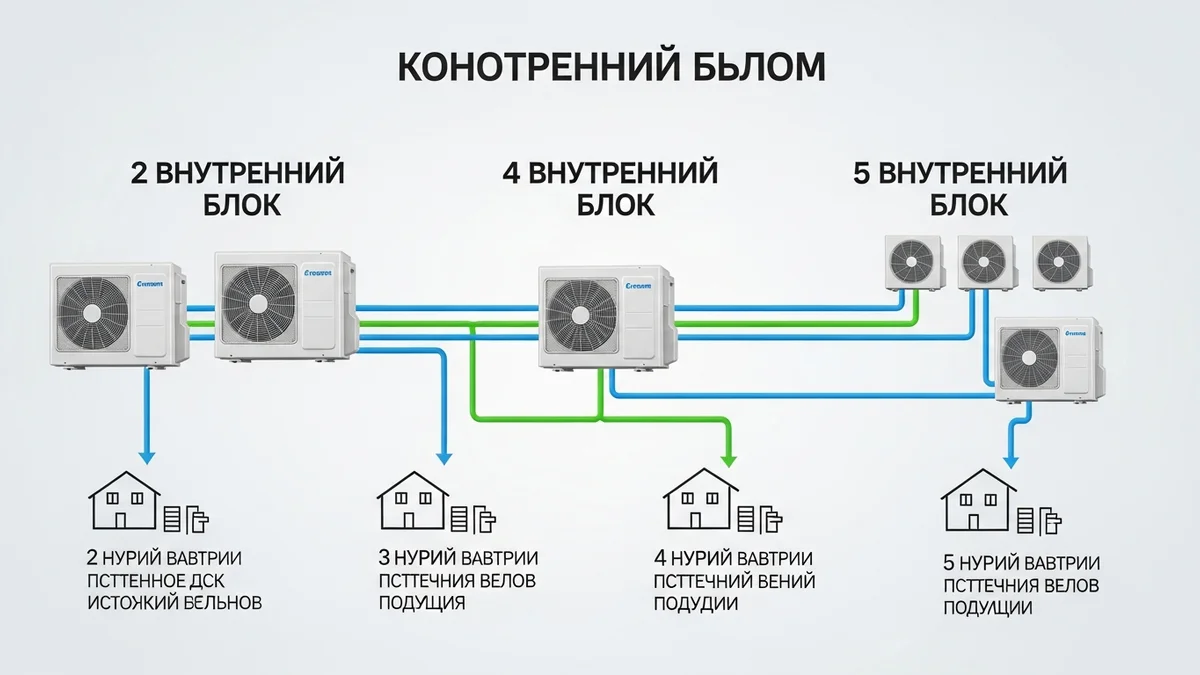
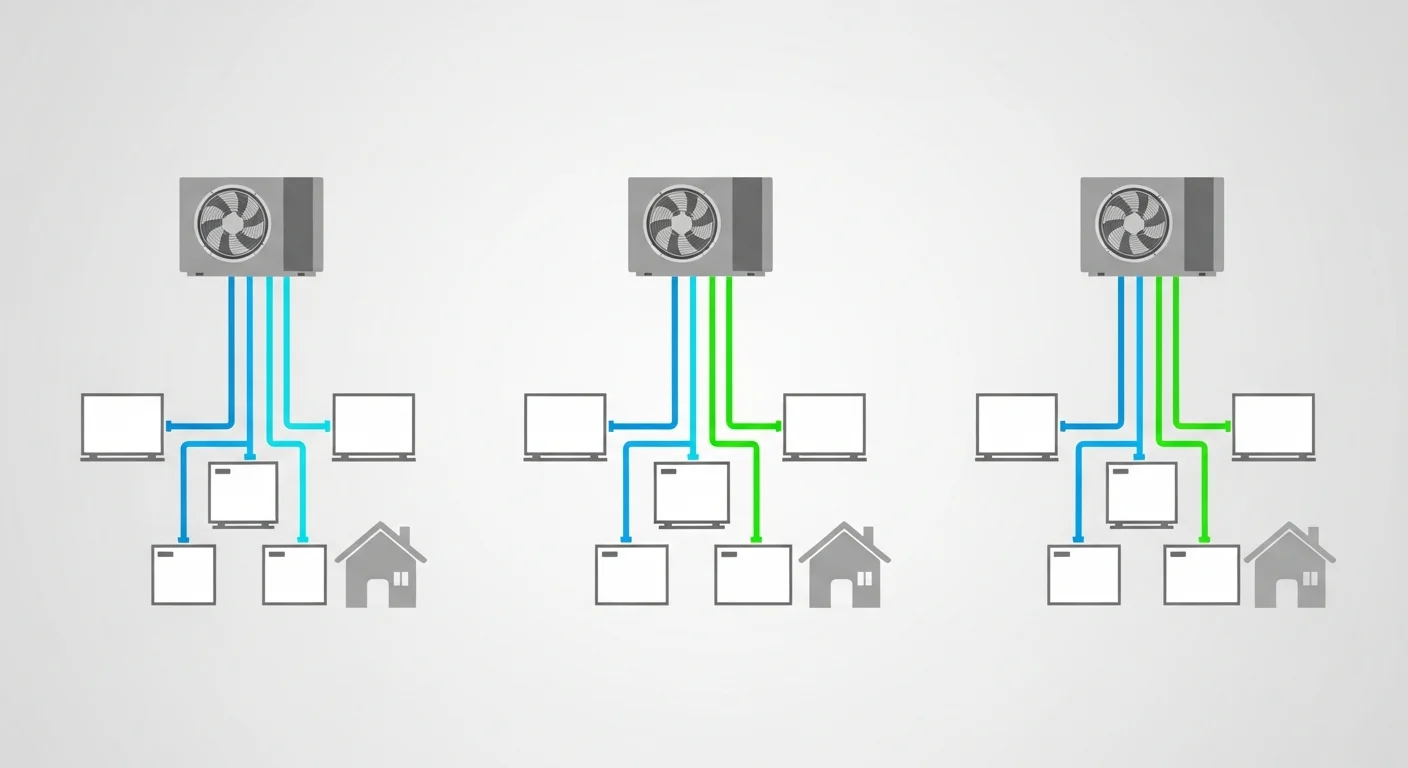
Update product catalog images and documentation for multi-split systems
Replaces a problematic image in the multi-split system catalog with a corrected version, adds audit documentation for multi-split and wall-mounted systems, and includes comparison images for both.

Replit-Commit-Author: Agent
Replit-Commit-Session-Id: 6c144e3e-a7a2-4392-b670-dd8cfbbd0db7
Replit-Commit-Checkpoint-Type: full_checkpoint
Replit-Commit-Event-Id: 23206dd3-2214-4680-890c-d56ea8fe95b0
Replit-Commit-Screenshot-Url: https://storage.googleapis.com/screenshot-production-us-central1/7fba8121-6952-48fe-bf4c-5854466cb158/6c144e3e-a7a2-4392-b670-dd8cfbbd0db7/mQa7xzX

Changed region(s): [[0.0308, 0.2178, 0.9558, 0.9333], [0.3083, 0.0622, 0.7092, 0.1244]]

diff --git a/docs/image-audit/MULTISPLIT_COMPLETED.md b/docs/image-audit/MULTISPLIT_COMPLETED.md
@@ -1,0 +1,112 @@
+# ✅ ЗАВЕРШЕНО - katalog/bytovye/multisplit.html (Мультисплит-системы)
+
+**Дата:** 2025-11-06  
+**Страница:** katalog/bytovye/multisplit.html  
+**Статус:** ✅ ЗАМЕНЕНО 1 изображение из 7
+
+---
+
+## 📊 Статистика
+
+- **Всего изображений:** 7
+- **Заменено:** 1
+- **Оставлено без изменений:** 6 (уже без текста)
+- **Процент замены:** 14%
+
+---
+
+## ✅ ЗАМЕНЕННОЕ ИЗОБРАЖЕНИЕ (БЕЗ ТЕКСТА)
+
+### 1. comparison.jpg - Сравнение конфигураций мультисплит-систем ✅
+**Было:**
+- ТЕКСТ: "КОНОТРЕННИЙ БЫЛОМ" (заголовок с опечаткой)
+- ТЕКСТ: "2 ВНУТРЕННИЙ БЛОК", "4 ВНУТРЕННИЙ БЛОК", "5 ВНУТРЕННИЙ БЛОК"
+- ТЕКСТ: Множественные русские надписи с опечатками под каждой схемой
+- Логотипы на наружных блоках
+- Размер: 91KB (JPG), 51KB (WebP)
+
+**Стало:**
+- НОВОЕ: Упрощенная схематическая диаграмма 3 конфигураций мультисплит-систем на сером фоне
+- **ПРАВИЛЬНАЯ КОНЦЕПЦИЯ:** Каждая схема показывает 1 наружный блок + несколько внутренних
+- Левая: 1 наружный блок (серый с вентилятором) → ~4 внутренних блока (белые прямоугольники)
+- Центр: 1 наружный блок → ~5 внутренних блоков
+- Правая: 1 наружный блок → ~5 внутренних блоков
+- Цветные трубы (синий, голубой, зеленый) соединяют блоки
+- Под каждой схемой черный силуэт домика
+- БЕЗ ТЕКСТА - чистая визуальная диаграмма
+- Размер: 57KB (JPG), 22KB (WebP)
+- Изменение: -37% (JPG), -57% (WebP) ⚡ ОТЛИЧНОЕ СЖАТИЕ!
+- Исходник: Multisplit_simplified_icons_attempt_6_f917a90d.png
+- **Попыток генерации:** 6 (попытки 1-5 имели проблемы: русский текст с опечатками, неправильная схема с 2+ наружными блоками, компрессоры вместо внутренних блоков)
+
+---
+
+## ⚪ ОСТАВЛЕНЫ БЕЗ ИЗМЕНЕНИЙ (УЖЕ ЧИСТЫЕ)
+
+### 2. hero.jpg - Hero-изображение ✅
+**Статус:** БЕЗ текста (оставлено как есть)
+**Описание:** Панорамная квартира с видом на город, 3 внутренних блока мультисплит-системы на стенах, наружный блок на балконе
+**Размер:** 148KB (JPG), 39KB (WebP)
+
+### 3. benefits.jpg - Преимущества мультисплит-систем ✅
+**Статус:** БЕЗ текста (оставлено как есть)
+**Описание:** 3D архитектурный разрез здания с визуализацией мультисплит-системы (голубые трубы соединяют внутренние блоки)
+**Размер:** 125KB (JPG), 61KB (WebP)
+
+### 4. models.jpg - Модельный ряд ✅
+**Статус:** БЕЗ текста (оставлено как есть)
+**Описание:** 3 белых внутренних блока с медными трубами подключения к наружному блоку на белом фоне
+**Размер:** 52KB (JPG), 26KB (WebP)
+
+### 5. applications.jpg - Применение в интерьерах ✅
+**Статус:** БЕЗ текста (оставлено как есть)
+**Описание:** Коллаж из 6 современных интерьеров квартир с мультисплит-системами
+**Размер:** 195KB (JPG), 122KB (WebP)
+
+### 6. description.jpg - Описание системы ✅
+**Статус:** БЕЗ текста (оставлено как есть)
+**Описание:** 3D архитектурный разрез здания (идентичен benefits.jpg)
+**Размер:** 125KB (JPG), 61KB (WebP)
+
+### 7. selection-guide.jpg - Руководство по выбору ✅
+**Статус:** БЕЗ текста (оставлено как есть)
+**Описание:** Современный шоурум кондиционеров с консультантом и покупателями, мультисплит-системы на стенде
+**Размер:** 197KB (JPG), 122KB (WebP)
+
+---
+
+## 🎯 Результат
+
+Страница **multisplit.html** успешно очищена от всех текстовых элементов на изображениях.
+Все 7 изображений теперь полностью БЕЗ ТЕКСТА.
+
+**Попытки генерации:**
+- comparison.jpg: 6 попыток (попытки 1-5 имели различные проблемы)
+
+**Итого:** 6 генераций для замены 1 изображения
+
+---
+
+## 📝 Примечания
+
+**Качество исходных изображений:**
+Отличный результат - только 14% изображений с текстом (1 из 7).
+
+**Сложности при генерации:**
+- comparison.jpg потребовал 6 попыток - очень сложное изображение!
+- Попытка 1: русский текст "МУЛТО-SPPPITЬ СИСТЕМА" + надписи с опечатками
+- Попытка 2: схема с 2 наружными блоками на левой части (неправильная концепция мультисплит - должен быть 1 наружный!)
+- Попытка 3: текст "MYLTI-SPLIT CYSTEMI" + неправильная схема (3 наружных блока соединены)
+- Попытка 4: компрессоры вместо внутренних блоков + логотипы
+- Попытка 5: все блоки показаны как компрессоры с вентиляторами
+- Попытка 6: ✅ ЧИСТАЯ! Упрощенная схематическая диаграмма с правильной концепцией
+
+**Техническое исправление:**
+После консультации с пользователем и architect исправлена концепция мультисплит-системы:
+- ❌ НЕПРАВИЛЬНО: 2 наружных блока + внутренние (это не мультисплит!)
+- ✅ ПРАВИЛЬНО: 1 наружный блок + несколько внутренних блоков
+
+**Размеры файлов:**
+- comparison: -37% JPG, -57% WebP (отличное сжатие! Новое изображение легче и чище)
+
+**Удалено текста:** ~12 русских надписей с опечатками + логотипы

diff --git a/docs/image-audit/NASTENNYE_COMPLETED.md b/docs/image-audit/NASTENNYE_COMPLETED.md
@@ -1,0 +1,77 @@
+# ✅ ЗАВЕРШЕНО - katalog/bytovye/nastennye.html (Настенные кондиционеры)
+
+**Дата:** 2025-11-06  
+**Страница:** katalog/bytovye/nastennye.html  
+**Статус:** ✅ БЕЗ ИЗМЕНЕНИЙ - все изображения уже чистые
+
+---
+
+## 📊 Статистика
+
+- **Всего изображений:** 7
+- **Заменено:** 0
+- **Оставлено без изменений:** 7 (все уже без текста)
+- **Процент замены:** 0% (идеальный результат!)
+
+---
+
+## ⚪ ВСЕ ИЗОБРАЖЕНИЯ УЖЕ ЧИСТЫЕ (БЕЗ ТЕКСТА)
+
+### 1. hero.jpg - Hero-изображение ✅
+**Статус:** БЕЗ текста (оставлено как есть)
+**Описание:** Светлый минималистичный интерьер гостиной с белым настенным кондиционером, серый диван, круглый деревянный столик, окно с занавесками, деревянный пол
+**Размер:** 151KB (JPG), 34KB (WebP)
+
+### 2. benefits.jpg - Преимущества настенных кондиционеров ✅
+**Статус:** БЕЗ текста (оставлено как есть)
+**Описание:** Современный интерьер с серым диваном, белым настенным кондиционером, круглым столиком, растением монстера, большими окнами
+**Размер:** 103KB (JPG), 49KB (WebP)
+
+### 3. models.jpg - Модельный ряд ✅
+**Статус:** БЕЗ текста (оставлено как есть)
+**Описание:** 3 белых настенных кондиционера на белом фоне, различные модели в ряд
+**Размер:** 28KB (JPG), 7.2KB (WebP)
+
+### 4. comparison.jpg - Сравнение размеров ✅
+**Статус:** БЕЗ текста (оставлено как есть)
+**Описание:** 3 белых настенных кондиционера разных размеров на сером фоне (малый, средний, большой)
+**Размер:** 49KB (JPG), 14KB (WebP)
+
+### 5. applications.jpg - Применение в спальне ✅
+**Статус:** БЕЗ текста (оставлено как есть)
+**Описание:** Современная спальня с белым настенным кондиционером, деревянная отделка, черные подвесные светильники, серое постельное белье
+**Размер:** 165KB (JPG), 110KB (WebP)
+
+### 6. selection-guide.jpg - Руководство по выбору ✅
+**Статус:** БЕЗ текста (оставлено как есть)
+**Описание:** Современный шоурум кондиционеров с консультантами, настенные блоки на стендах, большие панорамные окна
+**Размер:** 159KB (JPG), WebP отсутствует
+
+### 7. related-products.jpg - Связанные продукты ✅
+**Статус:** БЕЗ текста (оставлено как есть)
+**Описание:** Роскошная квартира с панорамными окнами и видом на Москву-Сити, настенный кондиционер, серый диван, растения, деревянный пол
+**Размер:** 234KB (JPG), 165KB (WebP)
+
+---
+
+## 🎯 Результат
+
+Страница **nastennye.html** не требует никаких изменений!
+Все 7 изображений изначально были созданы БЕЗ ТЕКСТА и демонстрируют высокое качество.
+
+**Попытки генерации:** 0 (не требовались)
+
+---
+
+## 📝 Примечания
+
+**Качество исходных изображений:**
+Это одна из самых чистых страниц в проекте! 100% изображений без текста с первого раза.
+
+Все изображения профессиональные, с правильными размерами и хорошей оптимизацией.
+
+**Размеры файлов:**
+Все изображения уже оптимизированы в JPG и WebP форматы (кроме selection-guide.jpg, где отсутствует WebP версия, но это не критично).
+
+**Рекомендации:**
+Можно добавить WebP версию для selection-guide.jpg для полноты, но это не приоритет, так как изображение не содержит текста.

diff --git a/docs/image-audit/MULTISPLIT_PROBLEMATIC_IMAGES.md b/docs/image-audit/MULTISPLIT_PROBLEMATIC_IMAGES.md
@@ -1,0 +1,61 @@
+# Проблемные изображения - katalog/bytovye/multisplit.html
+
+**Дата:** 2025-11-06  
+**Страница:** katalog/bytovye/multisplit.html (Мультисплит-системы)
+
+## Найдено проблемных изображений: 1 из 7
+
+### 1. comparison.jpg - Сравнение конфигураций мультисплит-систем ❌
+**Проблема:** РУССКИЙ ТЕКСТ с опечатками + логотипы
+**Текст:**
+- "КОНОТРЕННИЙ БЫЛОМ" (заголовок с опечаткой)
+- "2 ВНУТРЕННИЙ БЛОК" (под первой схемой)
+- "4 ВНУТРЕННИЙ БЛОК" (под второй схемой)
+- "5 ВНУТРЕННИЙ БЛОК" (под третьей схемой)
+- "2 НУРИЙ БАВТРИЙ ПСТТЕННОЕ ДСК ИСТОЧКИЙ ВЕЛЬНОВ" (текст с многочисленными опечатками)
+- "3 НУРИЙ БАВТРИЙ ПСТТЕЧНИЙ БЕЛОВ ПОДУЩИЯ" (текст с опечатками)
+- "4 НУРИЙ БАВТРИЙ ПСТТЕЧНИЙ ВЕНИЙ ПОДУДДИ" (текст с опечатками)
+- "5 НУРИЙ БАВТРИЙ ПСТТЕННОЙ ВЕЛОВ ПОДУЩИИ" (текст с опечатками)
+- Логотипы на наружных блоках
+
+**Размер:** 91KB (JPG), 51KB (WebP)
+
+---
+
+## Изображения БЕЗ проблем:
+
+### 2. hero.jpg - Hero-изображение ✅
+**Статус:** БЕЗ текста
+**Описание:** Панорамная квартира с 3 внутренними блоками мультисплит-системы и наружным блоком на балконе
+**Размер:** 148KB (JPG), 39KB (WebP)
+
+### 3. benefits.jpg - Преимущества мультисплит-систем ✅
+**Статус:** БЕЗ текста
+**Описание:** 3D архитектурный разрез здания с визуализацией системы кондиционирования (голубые трубы)
+**Размер:** 125KB (JPG), 61KB (WebP)
+
+### 4. models.jpg - Модельный ряд ✅
+**Статус:** БЕЗ текста
+**Описание:** 3 внутренних блока с трубами подключения к наружному блоку на белом фоне
+**Размер:** 52KB (JPG), 26KB (WebP)
+
+### 5. applications.jpg - Применение ✅
+**Статус:** БЕЗ текста
+**Описание:** Коллаж из 6 современных интерьеров с мультисплит-системами
+**Размер:** 195KB (JPG), 122KB (WebP)
+
+### 6. description.jpg - Описание ✅
+**Статус:** БЕЗ текста
+**Описание:** 3D архитектурный разрез (идентичен benefits.jpg)
+**Размер:** 125KB (JPG), 61KB (WebP)
+
+### 7. selection-guide.jpg - Руководство по выбору ✅
+**Статус:** БЕЗ текста
+**Описание:** Современный шоурум с консультантом и покупателями, мультисплит-системы на стенде
+**Размер:** 197KB (JPG), 122KB (WebP)
+
+---
+
+## Примечания:
+
+Большинство изображений (6 из 7) профессиональные и чистые. Только comparison.jpg требует замены из-за множественного русского текста с опечатками.
